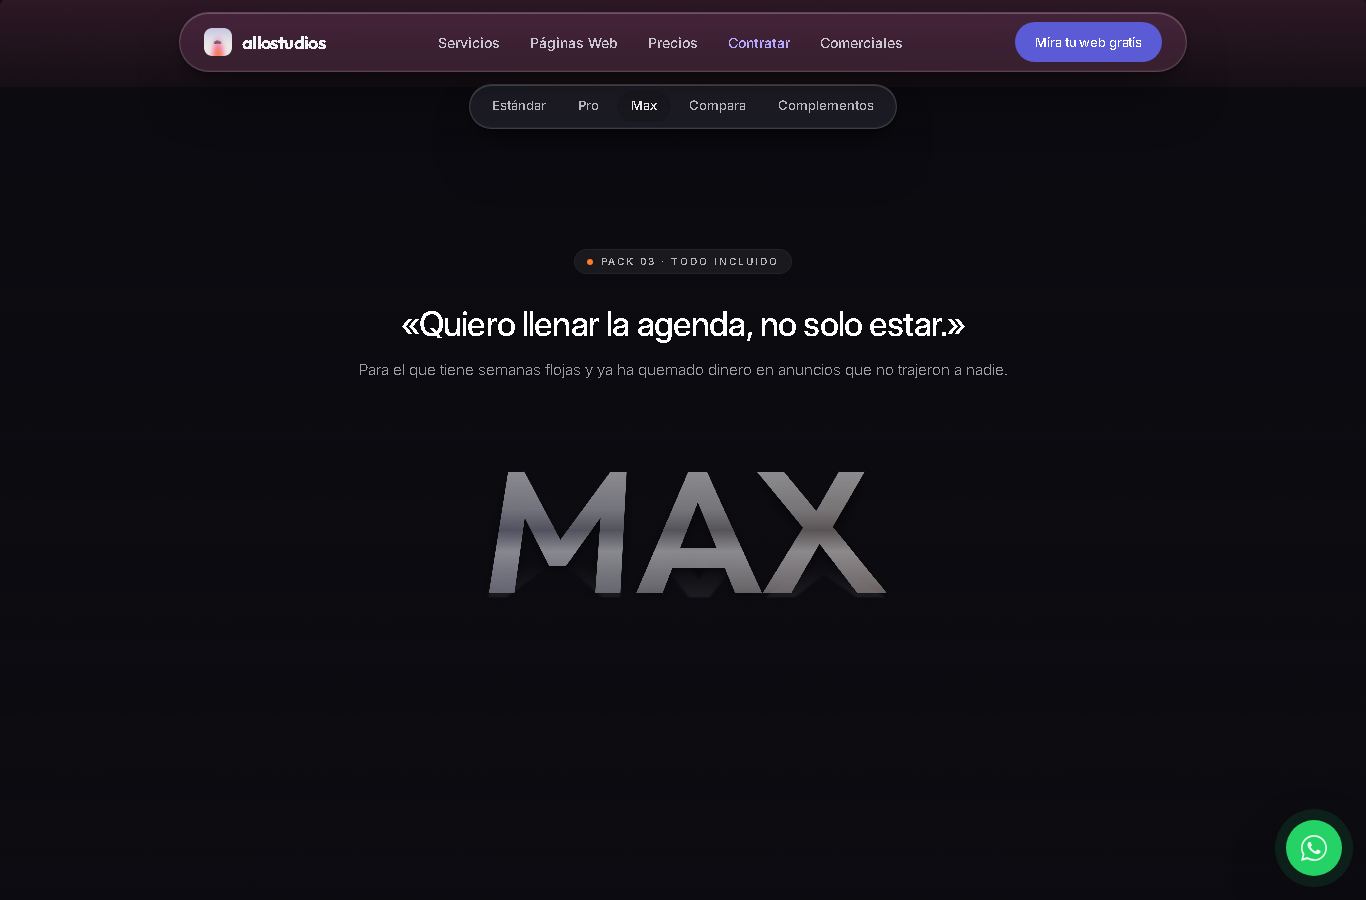
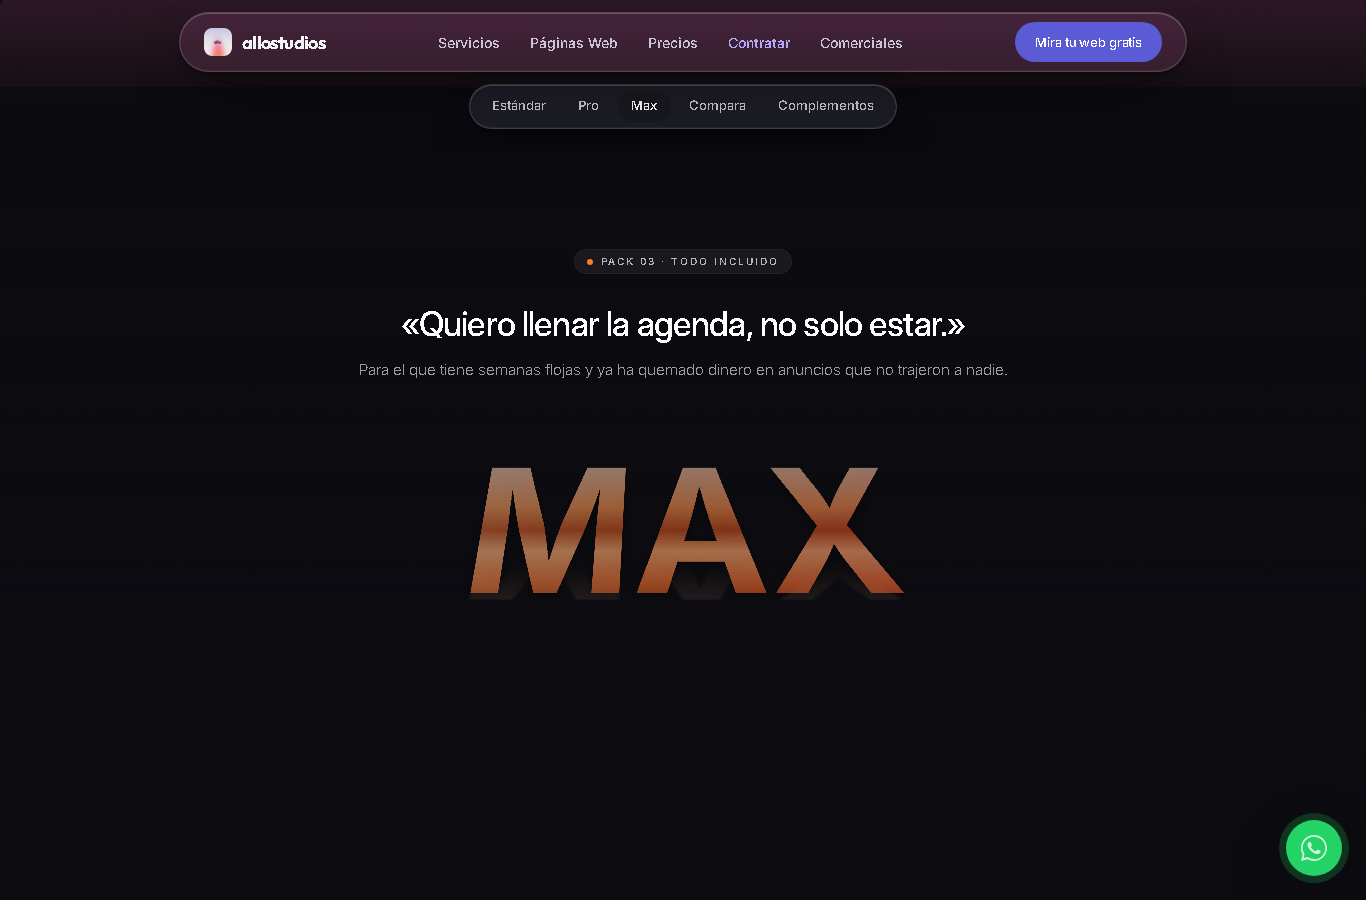
MAX naranja anodizado con grotesca tipo Apple (Inter pesada y apretada)

Changed region(s): [[0.3382, 0.4978, 0.6764, 0.6844]]

diff --git a/apps/web/src/components/home2/Fondos.tsx b/apps/web/src/components/home2/Fondos.tsx
@@ -69,19 +69,20 @@ export function FondoMax({ progreso, palabra }: { progreso: MotionValue<number>;
   const brillo = useTransform(progreso, [0.16, 0.9], ['120%', '-20%'])
   // Diseño «Apple»: titanio pulido, monocromo, con la luz de la marca solo como reflejo ambiental.
   // Nada de cromo naranja ni líneas técnicas: superficie limpia, un brillo que la recorre y un reflejo suave.
+  // Naranja anodizado (el naranja de la marca tratado como el titanio de Apple): claro arriba, denso en el canto
   const titanio = {
-    background: 'linear-gradient(180deg, #FFFFFF 0%, #E9E9EC 18%, #B9B9BF 40%, #7C7C83 52%, #D2D2D7 64%, #9A9AA1 82%, #4E4E55 100%)',
+    background: 'linear-gradient(180deg, #FFE3CF 0%, #FFC29A 16%, #FF8F4A 38%, #C8491A 52%, #FFA366 64%, #E2622A 82%, #6A2410 100%)',
     WebkitBackgroundClip: 'text', color: 'transparent',
   } as const
   return (
     <div className="absolute inset-0 pointer-events-none overflow-clip" aria-hidden style={{ background: 'radial-gradient(120% 70% at 50% 100%, #15131b 0%, #0c0c11 55%, #0b0b10 100%)' }}>
       {/* luz ambiental de la marca, muy tenue, que respira */}
       <motion.div animate={{ opacity: [0.35, 0.6, 0.35] }} transition={{ duration: 9, repeat: Infinity, ease: 'easeInOut' }}
-        className="absolute inset-0" style={{ background: 'radial-gradient(45% 32% at 42% 52%, rgba(91,91,214,.35), transparent 70%), radial-gradient(40% 30% at 62% 48%, rgba(255,122,42,.22), transparent 70%)' }} />
+        className="absolute inset-0" style={{ background: 'radial-gradient(45% 32% at 42% 52%, rgba(255,122,42,.32), transparent 70%), radial-gradient(40% 30% at 62% 48%, rgba(255,79,163,.16), transparent 70%)' }} />
       {/* escenario con perspectiva: pegado a la pantalla mientras dura el capítulo */}
       <div className="sticky top-0 h-screen w-full flex items-start justify-center overflow-hidden" style={{ perspective: '760px' }}>
-        <motion.div style={{ scale: escala, rotateX: giro, y, opacity: opacidad, transformOrigin: '50% 0%' }}
-          className="relative mt-[38vh] md:mt-[40vh] font-display font-semibold leading-none tracking-[-0.075em] select-none whitespace-nowrap">
+        <motion.div style={{ scale: escala, rotateX: giro, y, opacity: opacidad, transformOrigin: '50% 0%', fontFamily: 'var(--font-geist-sans), Inter, -apple-system, "SF Pro Display", system-ui, sans-serif' }}
+          className="relative mt-[38vh] md:mt-[40vh] font-bold leading-none tracking-[-0.065em] select-none whitespace-nowrap">
           {/* sombra de contacto, suave */}
           <span className="absolute inset-0 block text-[46vw] md:text-[40vw]" style={{ color: 'rgba(0,0,0,.6)', transform: 'translateY(3%) scaleY(.94)', filter: 'blur(18px)' }}>{palabra}</span>
           {/* titanio */}
@@ -91,7 +92,7 @@ export function FondoMax({ progreso, palabra }: { progreso: MotionValue<number>;
           {/* brillo que recorre las letras, lento y blanco */}
           <motion.span className="absolute inset-0 block text-[46vw] md:text-[40vw]" style={{ backgroundImage: 'linear-gradient(100deg, transparent 42%, rgba(255,255,255,.55) 50%, transparent 58%)', backgroundSize: '300% 100%', backgroundPositionX: brillo, backgroundRepeat: 'no-repeat', WebkitBackgroundClip: 'text', color: 'transparent', mixBlendMode: 'screen' }}>{palabra}</motion.span>
           {/* reflejo de la marca en la superficie (violeta → naranja), apenas */}
-          <span className="absolute inset-0 block text-[46vw] md:text-[40vw]" style={{ background: 'linear-gradient(100deg, rgba(91,91,214,.35) 0%, transparent 45%, rgba(255,122,42,.28) 100%)', WebkitBackgroundClip: 'text', color: 'transparent', mixBlendMode: 'soft-light' }}>{palabra}</span>
+          <span className="absolute inset-0 block text-[46vw] md:text-[40vw]" style={{ background: 'linear-gradient(100deg, rgba(255,255,255,.35) 0%, transparent 45%, rgba(255,79,163,.25) 100%)', WebkitBackgroundClip: 'text', color: 'transparent', mixBlendMode: 'soft-light' }}>{palabra}</span>
           {/* reflejo en el suelo */}
           <span className="absolute left-0 right-0 top-full block text-[46vw] md:text-[40vw]" style={{ ...titanio, transform: 'scaleY(-.5) translateY(6%)', transformOrigin: '50% 0%', opacity: .18, filter: 'blur(4px)', WebkitMaskImage: 'linear-gradient(180deg, rgba(0,0,0,.9), transparent 55%)', maskImage: 'linear-gradient(180deg, rgba(0,0,0,.9), transparent 55%)' }}>{palabra}</span>
         </motion.div>
